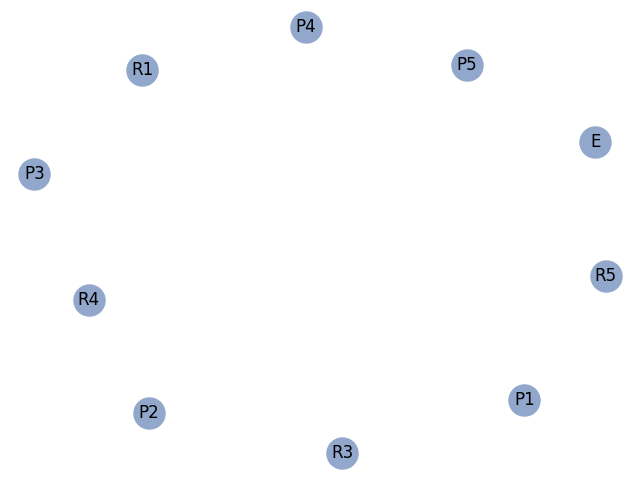
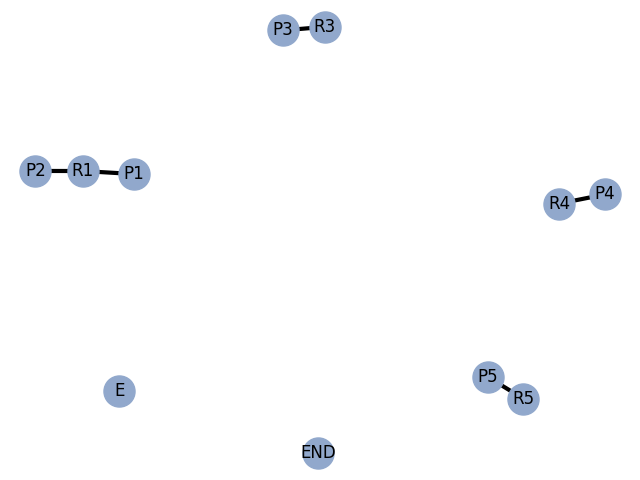
Add edge

diff --git a/c/EnquestesVisitor.py b/c/EnquestesVisitor.py
@@ -13,7 +13,7 @@ class EnquestesVisitor(ParseTreeVisitor):
         self.question_ids = []
         self.answer_ids = []
         self.alternative_ids = []
-        self.item_ids = []
+        self.item_pairs = []
         self.poll_ids = []
 
     # Visit a parse tree produced by EnquestesParser#root.
@@ -65,6 +65,7 @@ class EnquestesVisitor(ParseTreeVisitor):
 
     # Visit a parse tree produced by EnquestesParser#item.
     def visitItem(self, ctx:EnquestesParser.ItemContext):
+        self.item_pairs.append((ctx.questionId().ID(), ctx.answerId().ID()))
         return self.visitChildren(ctx)
 
 

diff --git a/c/NetworkGenerator.py b/c/NetworkGenerator.py
@@ -7,7 +7,10 @@ class NetworkGenerator:
         self.graph = nx.Graph()
 
     def add_node(self, node):
-        self.graph.add_node(node)
+        self.graph.add_node(str(node))
+
+    def add_edge(self, a, b):
+        self.graph.add_edge(str(a), str(b))
 
     def draw(self):
         options = {

diff --git a/c/Compiler.py b/c/Compiler.py
@@ -39,6 +39,10 @@ class Compiler:
         for a in visitor.answer_ids:
             self.generator.add_node(a)
 
+        for question, answer in visitor.item_pairs:
+            self.generator.add_edge(question, answer)
+
+        self.generator.add_node("END")
         self.generator.draw()
 
 
